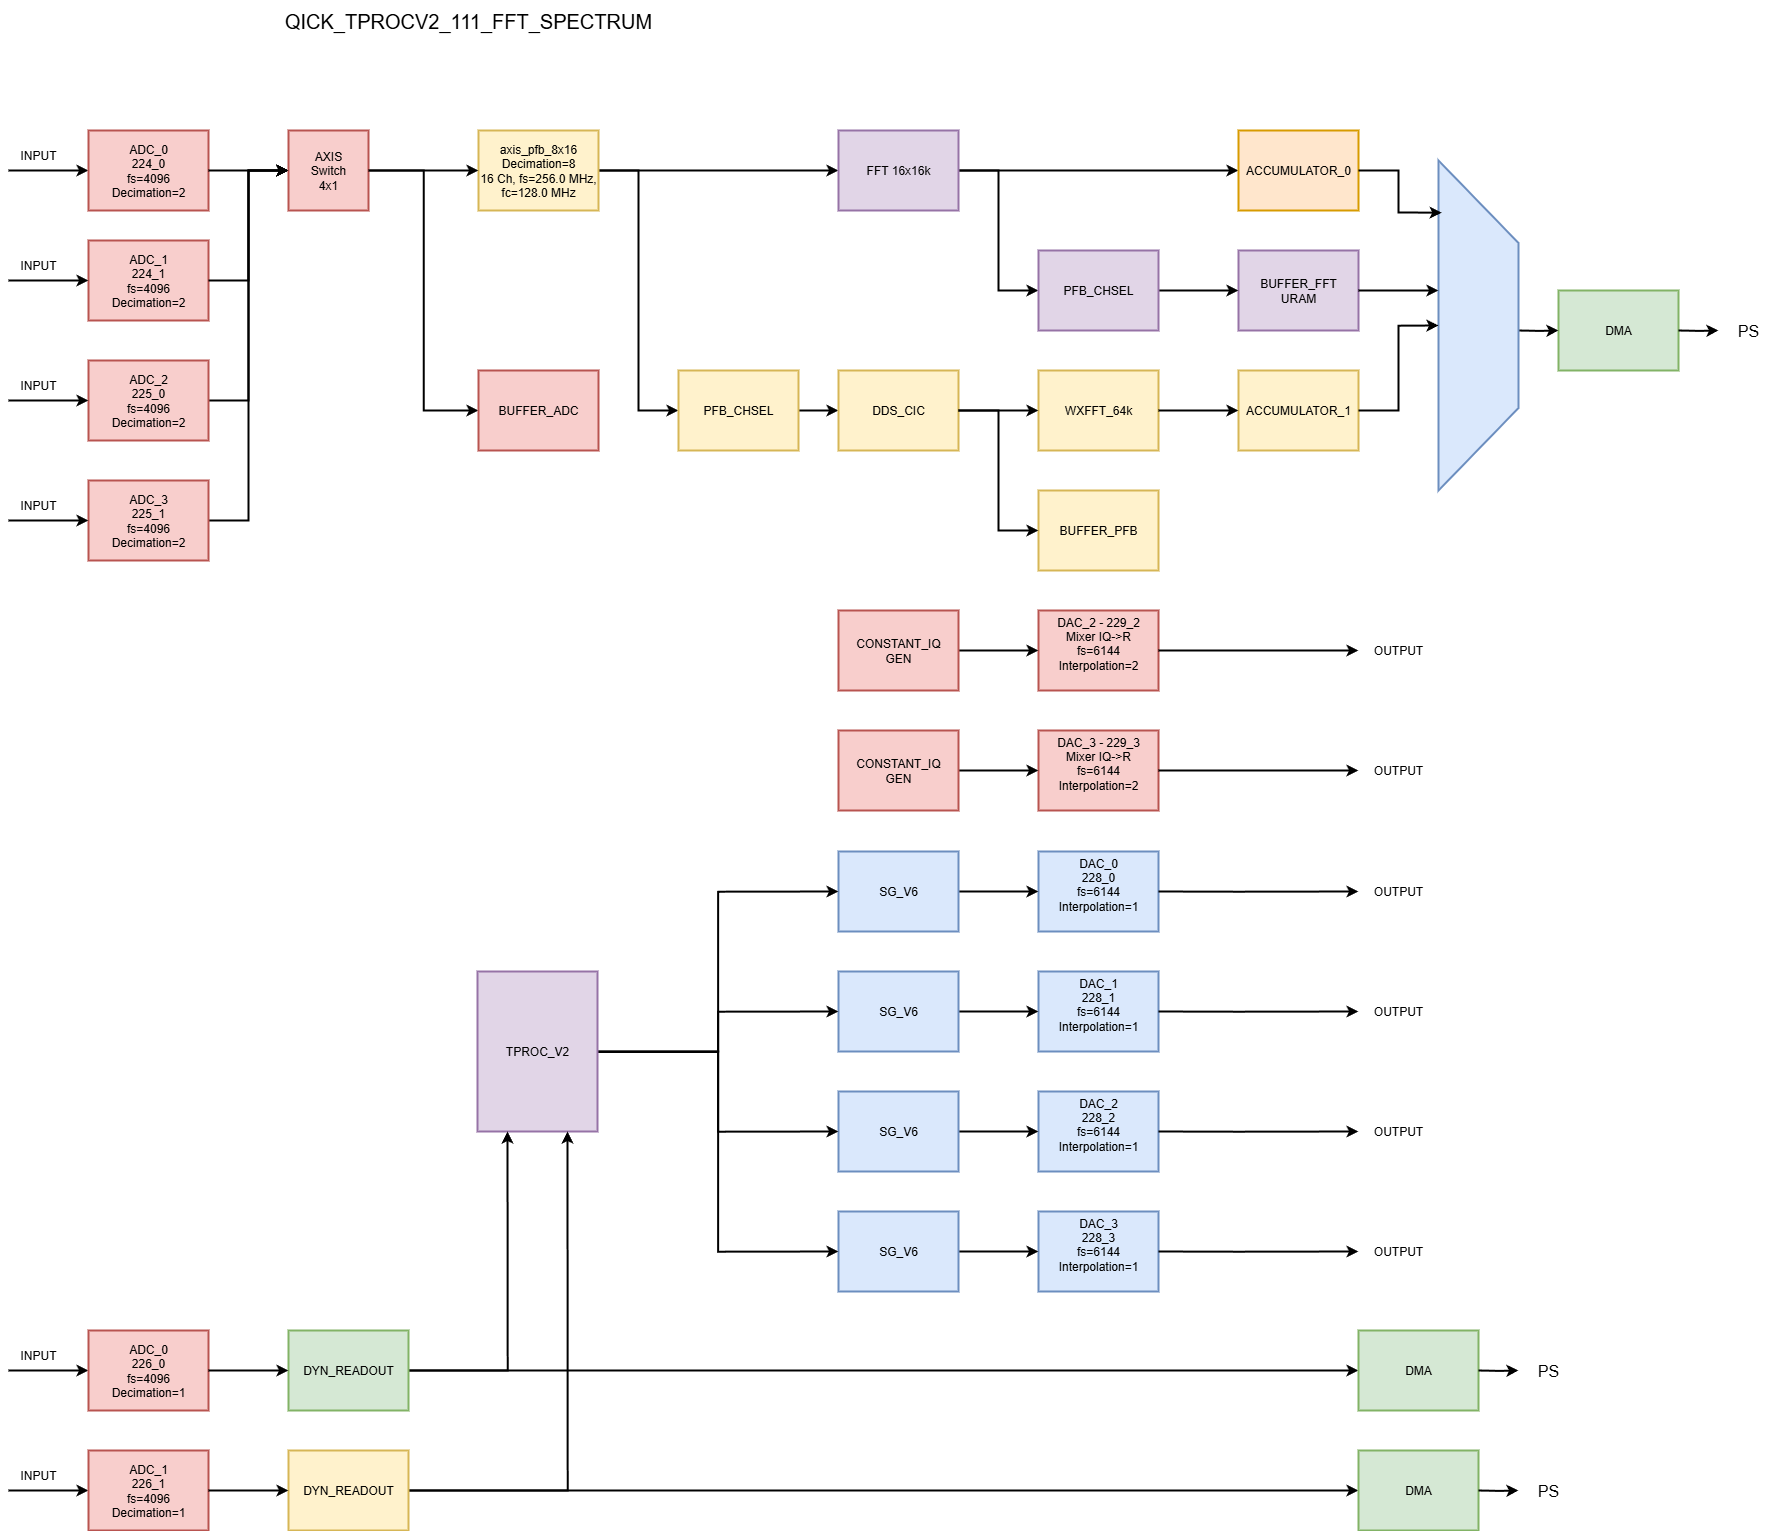
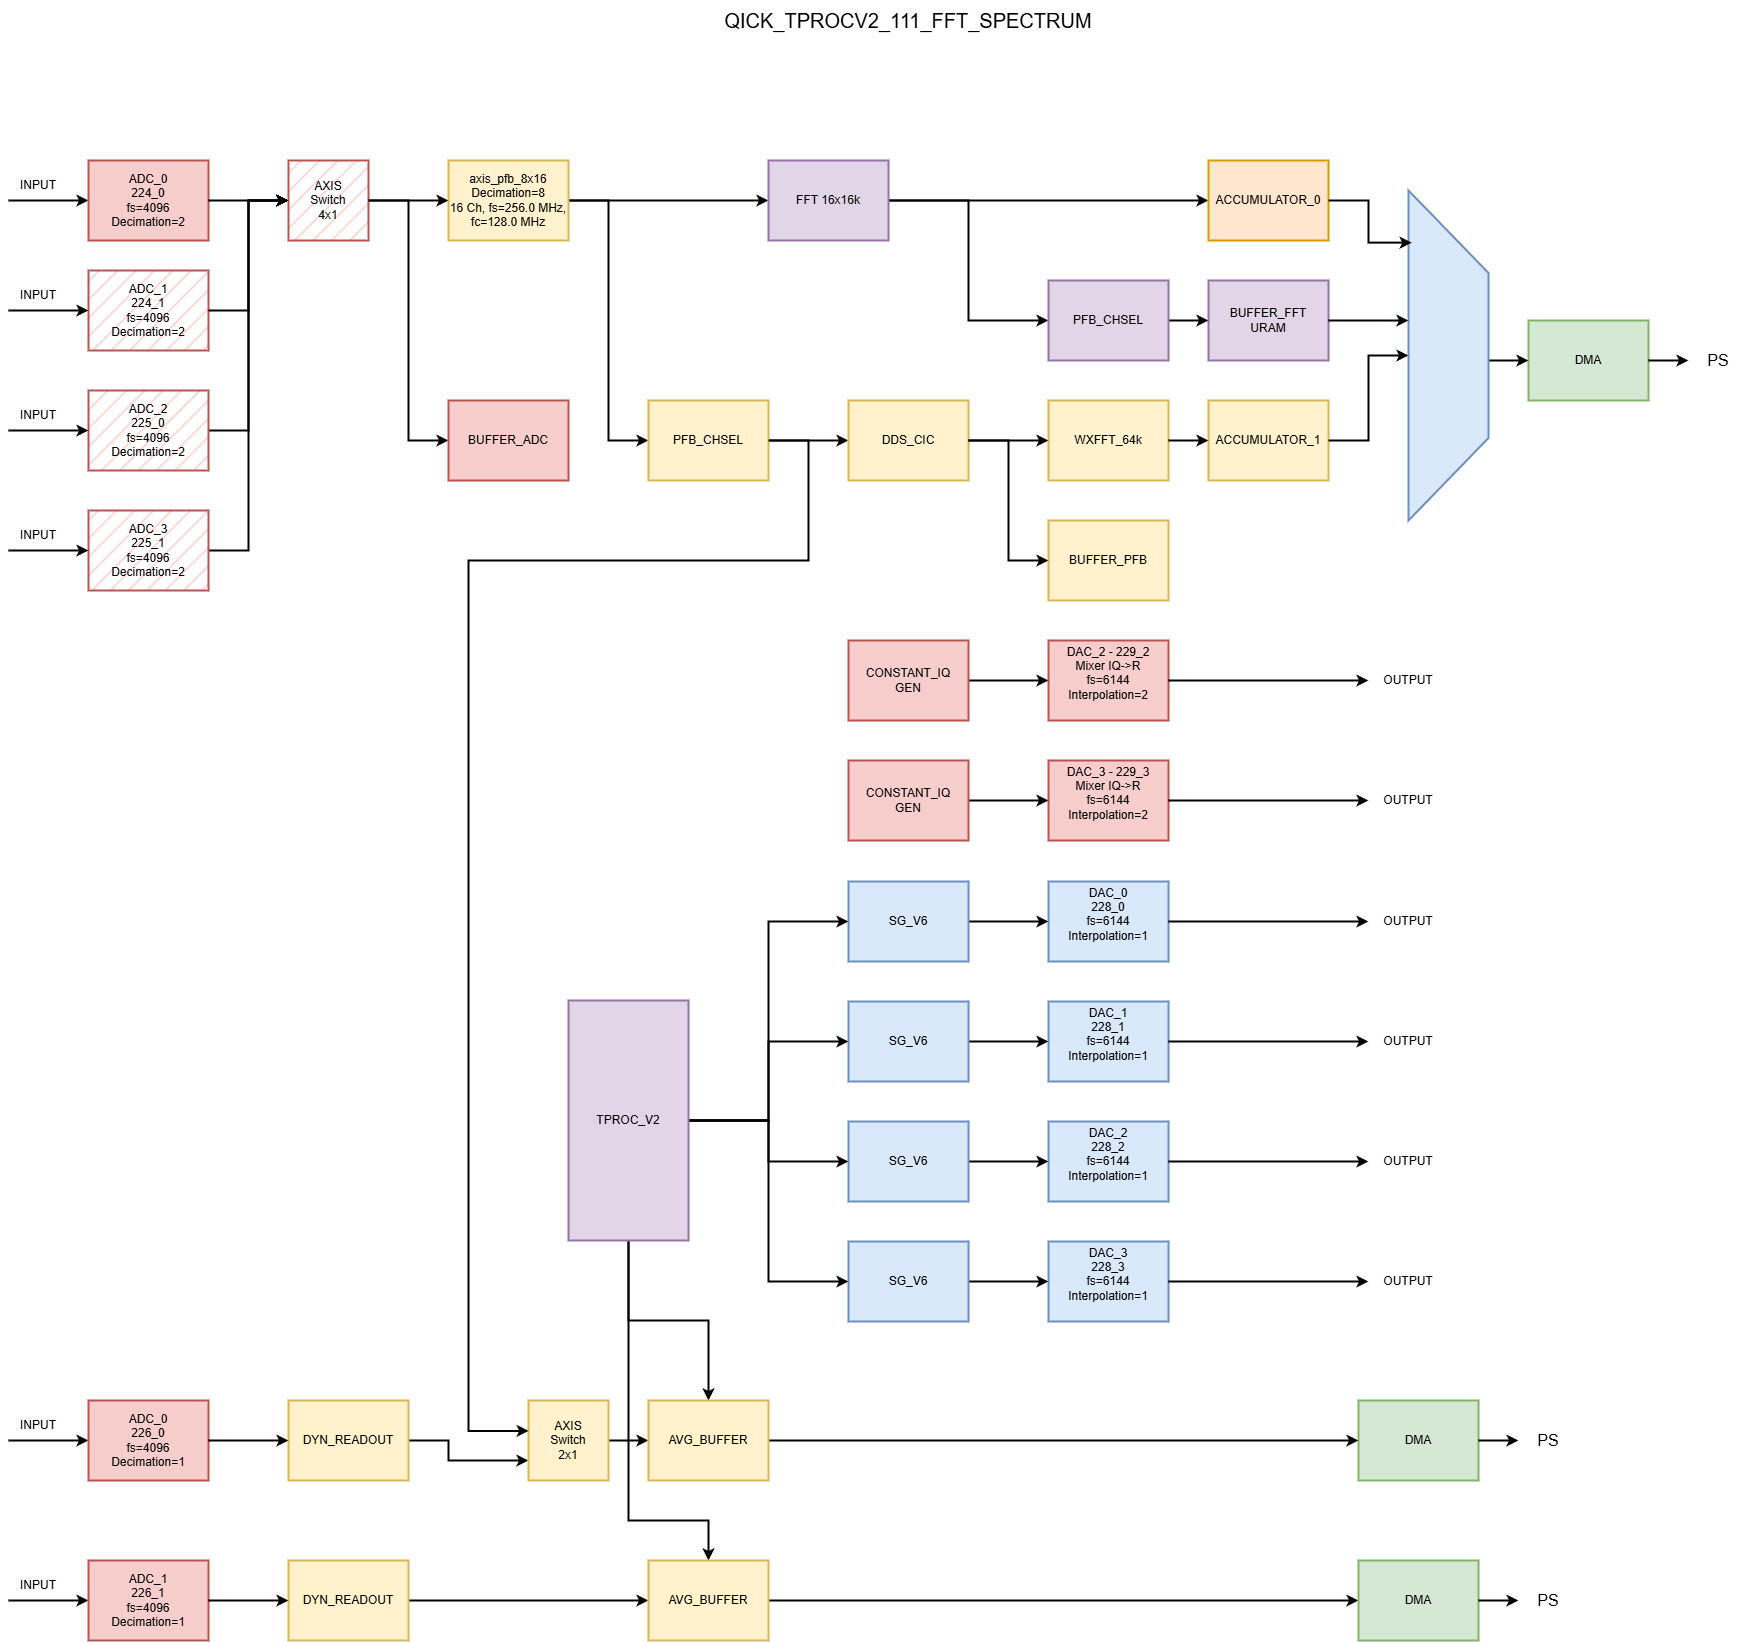
[#6] Updated spectrum lib to add support to adc switch for readout

diff --git a/qick_tprocv2_111_fft_spectrum/soft/spectrum.py b/qick_tprocv2_111_fft_spectrum/soft/spectrum.py
@@ -173,3 +173,16 @@ class SpectrumSoc(QickSoc):
 
     def ana_qout(self, ana_ch, q):
         self.pfbs_in[ana_ch].qout(q)
+
+    def adc_224_0_sw_sel(self, use_adc_224_0=False):
+        adc_224_0_sw = self._get_block("axis_switch_adc_224_0")
+        if use_adc_224_0:
+            adc_224_0_sw.sel(slv=0,mst=0)
+        else:
+            adc_224_0_sw.sel(slv=1,mst=0)
+
+    def adc_fft_sel(self, adc_ch=0):
+        if (adc_ch < 4):
+            self._get_block('axis_switch_adc_0').sel(slv=adc_ch,mst=0)
+        else:
+            raise ValueError("ADC axis_switch_adc_0 channel value %0d not supported" % (adc_ch))

diff --git a/qick_tprocv2_111_fft_spectrum/soft/pfb.py b/qick_tprocv2_111_fft_spectrum/soft/pfb.py
@@ -131,7 +131,7 @@ class AbsPfbAnalysis(SocIP):
                 self.dict['buff_pfb_chsel'] = block
                 self.buff_pfb_chsel = soc._get_block(block)
 
-                pfbch_outputs = soc.metadata.list_outputs(block, 'm_axis', ["axis_buffer_v1", "axis_buffer", "axis_ddscic_v3"])
+                pfbch_outputs = soc.metadata.list_outputs(block, 'm_axis', ["axis_buffer_v1", "axis_buffer", "axis_ddscic_v3", "axis_avg_buffer", "axis_buffer_ddr"])
                 for block, port, blocktype in pfbch_outputs:
                     if blocktype == "axis_ddscic_v3":
                         self.HAS_DDSCIC = True
@@ -150,7 +150,7 @@ class AbsPfbAnalysis(SocIP):
 
                                 block, _, _ = soc.metadata.trace_forward(block, 'm_axis', ["axi_dma"])
                                 self.dict['buff_wxfft_dma'] = block
-                            else:
+                            elif blocktype == "axis_buffer_v1":
                                 # PFB Buffer can be at output of DDSCIC...
                                 self.HAS_BUFF_PFB = True
                                 self.dict['buff_pfb'] = block
@@ -158,7 +158,7 @@ class AbsPfbAnalysis(SocIP):
 
                                 block, _, _ = soc.metadata.trace_forward(block, 'm_axis', ["axi_dma"])
                                 self.dict['buff_pfb_dma'] = block
-                    else:
+                    elif blocktype == "axis_buffer_v1":
                         # ... or it can be at the output of the PFB_CHSEL 
                         self.HAS_BUFF_PFB = True
                         self.dict['buff_pfb'] = block
@@ -166,7 +166,7 @@ class AbsPfbAnalysis(SocIP):
 
                         block, _, _ = soc.metadata.trace_forward(block, 'm_axis', ["axi_dma"])
                         self.dict['buff_pfb_dma'] = block
-            else: # xfft
+            elif blocktype == "axis_xfft_16x16384": # xfft
                 self.HAS_XFFT = True
                 self.dict['xfft'] = block
 
@@ -183,7 +183,7 @@ class AbsPfbAnalysis(SocIP):
 
                         block, _, _ = soc.metadata.trace_forward(block, 'm_axis', ["axi_dma"])
                         self.dict['buff_xfft_dma'] = block
-                    else:
+                    elif blocktype == "axis_accumulator_v1":
                         self.HAS_ACC_XFFT = True
                         self.dict['acc_xfft'] = block
                         self.acc_xfft = soc._get_block(block)